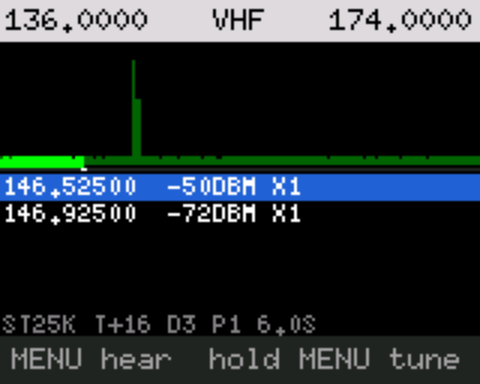
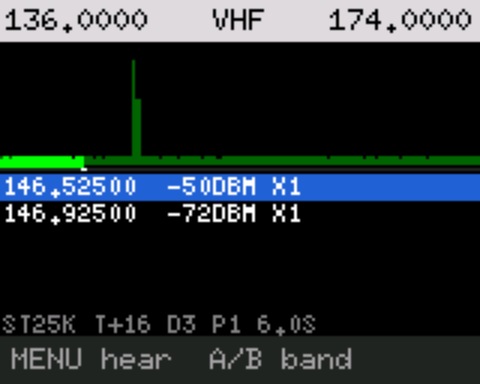
BAND SWEEP: tune with MENU while listening (the keypad sends no long press for MENU)
MENU on a hit listens; MENU again hands it to the VFO with save_master_vfo and leaves; EXIT goes back to the sweep.
Hint strips and scenarios updated.

Changed region(s): [[0.4375, 0.9062, 0.7812, 0.9688], [0.8125, 0.9062, 0.9688, 0.9688]]

diff --git a/firmware/firmware-source/apps/bandsweep/src/logic.rs b/firmware/firmware-source/apps/bandsweep/src/logic.rs
@@ -5,7 +5,6 @@
 use bf5rh_abi::{Api, AppEvent, AppResult};
 
 const KIND_SINGLE: u8 = 2;
-const KIND_LONG: u8 = 3;
 const KIND_REPEAT: u8 = 4;
 const KEY_ASTERISK: u8 = 10;
 const KEY_POUND: u8 = 11;
@@ -603,16 +602,14 @@ fn key(api: &Api, id: u8, kind: u8) -> AppResult {
         return AppResult::Continue;
     }
     if st.view == View::Listen {
-        if kind == KIND_SINGLE && matches!(id, KEY_MENU | KEY_EXIT) {
+        if kind == KIND_SINGLE && id == KEY_MENU {
+            // Tune the main screen's VFO to what is being heard (no tone) and leave; SPECTRUM opens centred on it.
+            (api.save_master_vfo)(st.listen_hz, 0);
             stop_listen(api, st);
-        }
-        return AppResult::Continue;
-    }
-    if kind == KIND_LONG && id == KEY_MENU {
-        // Spectrum opens centered on this, for a closer look.
-        if st.n_hits > 0 {
-            (api.save_master_vfo)(st.hits[st.selected].hz, 0);
             return AppResult::Exit;
+        }
+        if kind == KIND_SINGLE && id == KEY_EXIT {
+            stop_listen(api, st);
         }
         return AppResult::Continue;
     }
@@ -833,7 +830,7 @@ fn draw_status(api: &Api, st: &State) {
             a.i(api, (api.read_rssi)() as i32 - RSSI_DBM_BASE);
             a.s(b"DBM");
             line(api, STATUS_Y, a.as_slice(), TRACE, BLACK);
-            draw_hint(api, b"MENU back to sweep");
+            draw_hint(api, b"MENU tune  EXIT sweep");
             return;
         }
         View::Sweep => {}
@@ -855,7 +852,7 @@ fn draw_status(api: &Api, st: &State) {
     line(api, STATUS_Y, a.as_slice(), GRAY, BLACK);
     draw_hint(
         api,
-        if st.n_hits > 0 { b"MENU hear  hold MENU tune" } else { b"A/B band  1 step  5 range" },
+        if st.n_hits > 0 { b"MENU hear  A/B band" } else { b"A/B band  1 step  5 range" },
     );
 }
 

diff --git a/firmware/source-changes/apps_new/bandsweep/src/logic.rs b/firmware/source-changes/apps_new/bandsweep/src/logic.rs
@@ -5,7 +5,6 @@
 use bf5rh_abi::{Api, AppEvent, AppResult};
 
 const KIND_SINGLE: u8 = 2;
-const KIND_LONG: u8 = 3;
 const KIND_REPEAT: u8 = 4;
 const KEY_ASTERISK: u8 = 10;
 const KEY_POUND: u8 = 11;
@@ -603,16 +602,14 @@ fn key(api: &Api, id: u8, kind: u8) -> AppResult {
         return AppResult::Continue;
     }
     if st.view == View::Listen {
-        if kind == KIND_SINGLE && matches!(id, KEY_MENU | KEY_EXIT) {
+        if kind == KIND_SINGLE && id == KEY_MENU {
+            // Tune the main screen's VFO to what is being heard (no tone) and leave; SPECTRUM opens centred on it.
+            (api.save_master_vfo)(st.listen_hz, 0);
             stop_listen(api, st);
-        }
-        return AppResult::Continue;
-    }
-    if kind == KIND_LONG && id == KEY_MENU {
-        // Spectrum opens centered on this, for a closer look.
-        if st.n_hits > 0 {
-            (api.save_master_vfo)(st.hits[st.selected].hz, 0);
             return AppResult::Exit;
+        }
+        if kind == KIND_SINGLE && id == KEY_EXIT {
+            stop_listen(api, st);
         }
         return AppResult::Continue;
     }
@@ -833,7 +830,7 @@ fn draw_status(api: &Api, st: &State) {
             a.i(api, (api.read_rssi)() as i32 - RSSI_DBM_BASE);
             a.s(b"DBM");
             line(api, STATUS_Y, a.as_slice(), TRACE, BLACK);
-            draw_hint(api, b"MENU back to sweep");
+            draw_hint(api, b"MENU tune  EXIT sweep");
             return;
         }
         View::Sweep => {}
@@ -855,7 +852,7 @@ fn draw_status(api: &Api, st: &State) {
     line(api, STATUS_Y, a.as_slice(), GRAY, BLACK);
     draw_hint(
         api,
-        if st.n_hits > 0 { b"MENU hear  hold MENU tune" } else { b"A/B band  1 step  5 range" },
+        if st.n_hits > 0 { b"MENU hear  A/B band" } else { b"A/B band  1 step  5 range" },
     );
 }
 

diff --git a/firmware/source-changes/simulator/main.rs b/firmware/source-changes/simulator/main.rs
@@ -1165,8 +1165,8 @@ fn test_sweep() {
     check(sim().cfg_rx == listening_to && sim().holds_rx && sim().modulation == 0, "Menu tunes the selected signal in FM");
     run(app, 3);
     check(sim().retunes == tuned_before, "sweep pauses while listening");
-    press(app, 12);
-    check(!sim().holds_rx, "Menu returns to sweeping");
+    press(app, 13);
+    check(!sim().holds_rx, "Exit returns to sweeping");
     run(app, 3);
     check(sim().retunes > tuned_before, "sweep resumed");
 
@@ -1181,7 +1181,9 @@ fn test_sweep() {
 
     println!("Band Sweep: send to VFO for Spectrum");
     let selected = bandsweep::debug_selected_hz();
-    check(hold(app, 12), "holding Menu leaves");
+    press(app, 12); // listen to it
+    check(sim().vfo_saved.is_none(), "listening alone hands nothing to the VFO");
+    check(press(app, 12), "Menu while listening leaves");
     check(sim().vfo_saved == Some((selected, 0)), "saved the selected frequency to VFO with no tone");
     app(&API, AppEvent::Leave);
 
@@ -1193,7 +1195,7 @@ fn test_sweep() {
     check(bandsweep::debug_band() == 2, "opens on the band the radio is tuned to");
     press(app, 12);
     check(sim().modulation == 1 && sim().cfg_rx == 121_500_000, "listens in AM");
-    press(app, 12);
+    press(app, 13);
     check(sim().modulation == 0, "back to FM for sweeping");
 
     println!("Band Sweep: band, step and custom range");

diff --git a/docs/USER-GUIDE.md b/docs/USER-GUIDE.md
@@ -487,8 +487,9 @@ other lists, and the trace is green: red is only used while the radio transmits.
 | Key | Action |
 |---|---|
 | `UP` / `DOWN` | Select a hit in the list. |
-| `MENU` | Listen to the selected hit (`RX` line). `MENU` or `EXIT` goes back to the sweep. |
-| Hold `MENU` | Put the selected hit on the main screen's VFO and leave the app. |
+| `MENU` | Listen to the selected hit (`RX` line). |
+| `MENU` while listening | Put that frequency on the main screen's VFO (no tone) and leave the app. |
+| `EXIT` while listening | Go back to the sweep. |
 | `A/B` | Next band (VHF, UHF, AIR, 220, 350). |
 | `1` | Switch the step between 25 and 12.5 kHz. |
 | `5` | Type a custom range: start, `MENU`, stop, `MENU` (six digits each, MHz with three decimals). |
